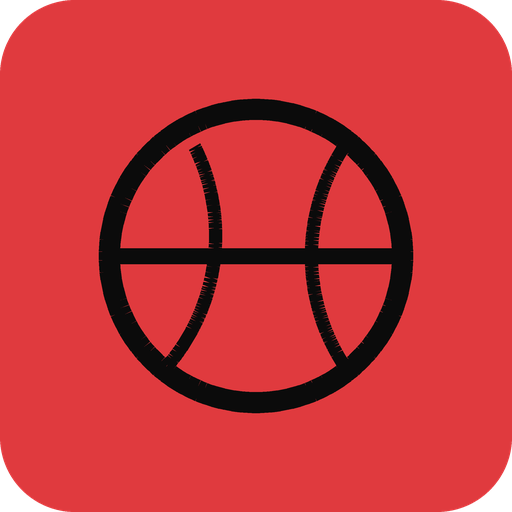
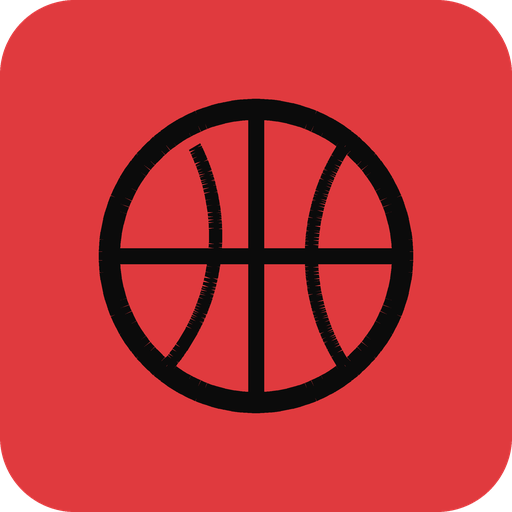
Arregla el manifest de la PWA: icono 512 corrupto y costura vertical del balon

Changed region(s): [[0.4688, 0.2188, 0.5312, 0.7812]]

diff --git a/index.html b/index.html
@@ -8,7 +8,7 @@
 <meta name="apple-mobile-web-app-title" content="Rutina">
 <meta name="mobile-web-app-capable" content="yes">
 <meta name="theme-color" content="#E03A3E">
[2 lines of base64/hex data omitted]
 <title>Rutina semanal interactiva — Cancha</title>
 <link rel="preconnect" href="https://fonts.googleapis.com">
 <link href="https://fonts.googleapis.com/css2?family=Oswald:wght@500;600;700&family=IBM+Plex+Sans:wght@400;500;600&family=IBM+Plex+Mono:wght@500&display=swap" rel="stylesheet">

diff --git a/tools/make_icons.py b/tools/make_icons.py
@@ -37,12 +37,11 @@ BALL_CX, BALL_CY, BALL_R = 96.0, 96.0, 55.0
 # Los trazos del balon, copiados del SVG del manifest:
 #   <circle cx=96 cy=96 r=55 stroke-width=8/>
 #   <line x1=41 y1=96 x2=151 y2=96 stroke-width=6/>
-#   <path d='M96 41 A55 55 0 0 1 96 151' stroke-width=6/>
+#   <line x1=96 y1=41 x2=96 y2=151 stroke-width=6/>
 #   <path d='M73 55 A75 75 0 0 1 63 137' stroke-width=5/>
 #   <path d='M129 55 A75 75 0 0 0 129 137' stroke-width=5/>
 BALL_ARCS = [
     # (x1, y1, rx, ry, large_arc, sweep, x2, y2, stroke_width)
-    (96.0, 41.0, 55.0, 55.0, 0, 1, 96.0, 151.0, 6.0),
     (73.0, 55.0, 75.0, 75.0, 0, 1, 63.0, 137.0, 5.0),
     (129.0, 55.0, 75.0, 75.0, 0, 0, 129.0, 137.0, 5.0),
 ]
@@ -107,9 +106,8 @@ def draw_ball(draw, scale, ox, oy):
     ]
     draw.line([tx(px, py) for px, py in circle], fill=INK, width=w(8.0), joint="curve")
 
-    a = tx(41.0, 96.0)
-    b = tx(151.0, 96.0)
-    draw.line([a, b], fill=INK, width=w(6.0))
+    draw.line([tx(41.0, 96.0), tx(151.0, 96.0)], fill=INK, width=w(6.0))
+    draw.line([tx(96.0, 41.0), tx(96.0, 151.0)], fill=INK, width=w(6.0))
 
     for spec in BALL_ARCS:
         pts = arc_points(*spec[:8])
